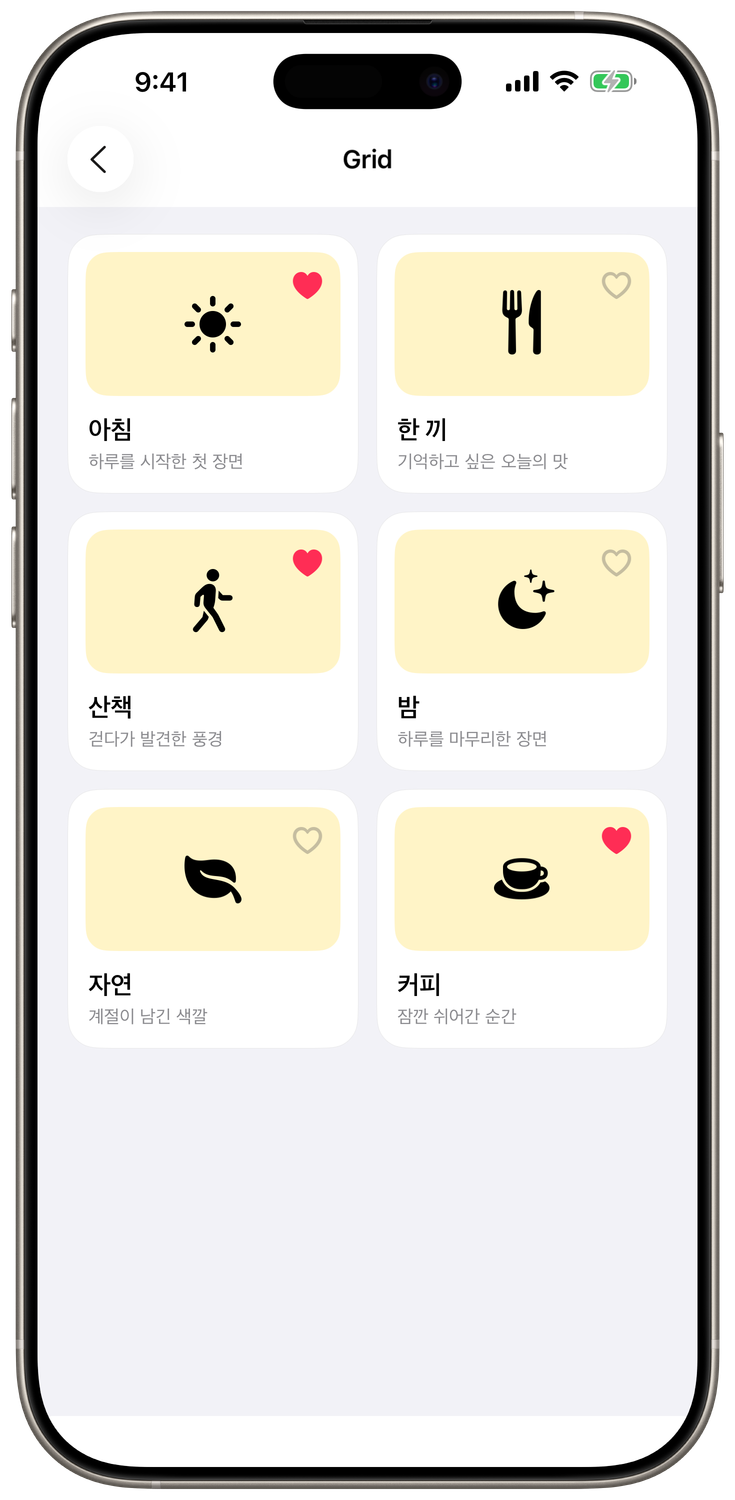
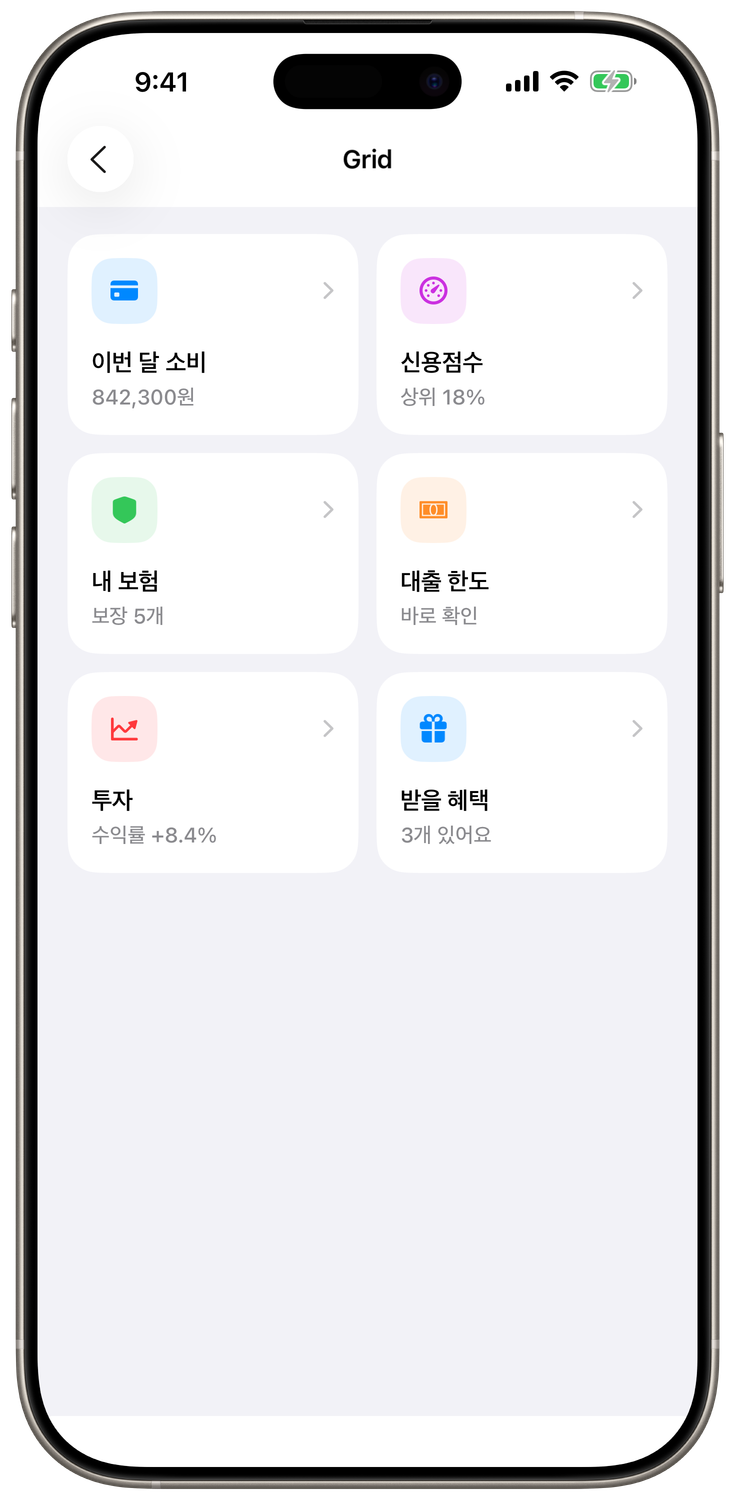
[#59] Grid 예제를 금융 카드로 개선

Changed region(s): [[0.0898, 0.1533, 0.4789, 0.6747], [0.5388, 0.1533, 0.898, 0.6747]]

diff --git a/Projects/Shared/CollectionViewAdapter/Demo/4. ReadmeCapture/2. ReadmeGridViewController.swift b/Projects/Shared/CollectionViewAdapter/Demo/4. ReadmeCapture/2. ReadmeGridViewController.swift
@@ -1,52 +1,298 @@
 import CollectionViewAdapter
 import UIKit
 
+private final class ReadmeFinanceGridContentView: UIControl, Touchable {
+    enum Tone: Equatable {
+        case blue
+        case green
+        case orange
+        case purple
+        case red
+
+        var color: UIColor {
+            switch self {
+            case .blue:
+                .systemBlue
+            case .green:
+                .systemGreen
+            case .orange:
+                .systemOrange
+            case .purple:
+                .systemPurple
+            case .red:
+                .systemRed
+            }
+        }
+    }
+
+    struct Item: Identifiable, Equatable {
+        let id: String
+        let title: String
+        let value: String
+        let symbolName: String
+        let tone: Tone
+    }
+
+    var item: Item? {
+        didSet {
+            guard item != oldValue else {
+                return
+            }
+            applyItem()
+        }
+    }
+
+    private let surfaceView = UIView()
+    private let symbolBackgroundView = UIView()
+    private let symbolView = UIImageView()
+    private let chevronView = UIImageView(
+        image: UIImage(systemName: "chevron.right")
+    )
+    private let titleLabel = UILabel()
+    private let valueLabel = UILabel()
+
+    override init(frame: CGRect) {
+        super.init(frame: frame)
+        configureView()
+        configureLayout()
+    }
+
+    @available(*, unavailable)
+    required init?(coder: NSCoder) {
+        fatalError("init(coder:)는 지원하지 않습니다.")
+    }
+
+    override var isHighlighted: Bool {
+        didSet {
+            surfaceView.alpha = isHighlighted ? 0.72 : 1
+            surfaceView.transform = isHighlighted
+                ? CGAffineTransform(scaleX: 0.97, y: 0.97)
+                : .identity
+        }
+    }
+
+    private func applyItem() {
+        guard let item else {
+            titleLabel.text = nil
+            valueLabel.text = nil
+            symbolView.image = nil
+            accessibilityLabel = nil
+            return
+        }
+
+        titleLabel.text = item.title
+        valueLabel.text = item.value
+        symbolView.image = UIImage(systemName: item.symbolName)
+        symbolView.tintColor = item.tone.color
+        symbolBackgroundView.backgroundColor =
+            item.tone.color.withAlphaComponent(0.12)
+        accessibilityLabel = "\(item.title), \(item.value)"
+    }
+
+    private func configureView() {
+        backgroundColor = .clear
+        isAccessibilityElement = true
+        accessibilityTraits = .button
+
+        surfaceView.backgroundColor = .secondarySystemGroupedBackground
+        surfaceView.layer.cornerRadius = 20
+        surfaceView.layer.cornerCurve = .continuous
+        surfaceView.isUserInteractionEnabled = false
+
+        symbolBackgroundView.layer.cornerRadius = 14
+        symbolBackgroundView.layer.cornerCurve = .continuous
+
+        symbolView.contentMode = .scaleAspectFit
+        symbolView.preferredSymbolConfiguration =
+            UIImage.SymbolConfiguration(
+                pointSize: 19,
+                weight: .semibold
+            )
+
+        chevronView.tintColor = .tertiaryLabel
+        chevronView.contentMode = .scaleAspectFit
+        chevronView.preferredSymbolConfiguration =
+            UIImage.SymbolConfiguration(
+                pointSize: 12,
+                weight: .semibold
+            )
+
+        titleLabel.font = .systemFont(ofSize: 16, weight: .semibold)
+        titleLabel.textColor = .label
+
+        valueLabel.font = .systemFont(ofSize: 14, weight: .medium)
+        valueLabel.textColor = .secondaryLabel
+        valueLabel.numberOfLines = 1
+        valueLabel.adjustsFontSizeToFitWidth = true
+        valueLabel.minimumScaleFactor = 0.85
+    }
+
+    private func configureLayout() {
+        [
+            surfaceView,
+            symbolBackgroundView,
+            symbolView,
+            chevronView,
+            titleLabel,
+            valueLabel
+        ].forEach {
+            $0.translatesAutoresizingMaskIntoConstraints = false
+        }
+
+        addSubview(surfaceView)
+        surfaceView.addSubview(symbolBackgroundView)
+        symbolBackgroundView.addSubview(symbolView)
+        surfaceView.addSubview(chevronView)
+        surfaceView.addSubview(titleLabel)
+        surfaceView.addSubview(valueLabel)
+
+        activateSurfaceConstraints()
+        activateContentConstraints()
+    }
+
+    private func activateSurfaceConstraints() {
+        NSLayoutConstraint.activate([
+            surfaceView.leadingAnchor.constraint(equalTo: leadingAnchor),
+            surfaceView.trailingAnchor.constraint(equalTo: trailingAnchor),
+            surfaceView.topAnchor.constraint(equalTo: topAnchor),
+            surfaceView.bottomAnchor.constraint(equalTo: bottomAnchor),
+
+            symbolBackgroundView.leadingAnchor.constraint(
+                equalTo: surfaceView.leadingAnchor,
+                constant: 16
+            ),
+            symbolBackgroundView.topAnchor.constraint(
+                equalTo: surfaceView.topAnchor,
+                constant: 16
+            ),
+            symbolBackgroundView.widthAnchor.constraint(
+                equalToConstant: 44
+            ),
+            symbolBackgroundView.heightAnchor.constraint(
+                equalToConstant: 44
+            ),
+
+            symbolView.centerXAnchor.constraint(
+                equalTo: symbolBackgroundView.centerXAnchor
+            ),
+            symbolView.centerYAnchor.constraint(
+                equalTo: symbolBackgroundView.centerYAnchor
+            ),
+            symbolView.widthAnchor.constraint(equalToConstant: 22),
+            symbolView.heightAnchor.constraint(equalToConstant: 22),
+
+            chevronView.centerYAnchor.constraint(
+                equalTo: symbolBackgroundView.centerYAnchor
+            ),
+            chevronView.trailingAnchor.constraint(
+                equalTo: surfaceView.trailingAnchor,
+                constant: -16
+            ),
+            chevronView.widthAnchor.constraint(equalToConstant: 10),
+            chevronView.heightAnchor.constraint(equalToConstant: 16)
+        ])
+    }
+
+    private func activateContentConstraints() {
+        NSLayoutConstraint.activate([
+            titleLabel.leadingAnchor.constraint(
+                equalTo: surfaceView.leadingAnchor,
+                constant: 16
+            ),
+            titleLabel.trailingAnchor.constraint(
+                equalTo: surfaceView.trailingAnchor,
+                constant: -16
+            ),
+            titleLabel.topAnchor.constraint(
+                equalTo: symbolBackgroundView.bottomAnchor,
+                constant: 16
+            ),
+
+            valueLabel.leadingAnchor.constraint(
+                equalTo: titleLabel.leadingAnchor
+            ),
+            valueLabel.trailingAnchor.constraint(
+                equalTo: titleLabel.trailingAnchor
+            ),
+            valueLabel.topAnchor.constraint(
+                equalTo: titleLabel.bottomAnchor,
+                constant: 5
+            ),
+            valueLabel.bottomAnchor.constraint(
+                lessThanOrEqualTo: surfaceView.bottomAnchor,
+                constant: -16
+            )
+        ])
+    }
+}
+
+private struct ReadmeFinanceGridComponent: Component {
+    typealias Item = ReadmeFinanceGridContentView.Item
+
+    let item: Item
+
+    var estimatedHeight: CGFloat {
+        150
+    }
+
+    func createContent() -> ReadmeFinanceGridContentView {
+        ReadmeFinanceGridContentView()
+    }
+
+    func render(
+        context _: ComponentContext,
+        content: ReadmeFinanceGridContentView
+    ) {
+        content.item = item
+    }
+}
+
 /// 하나의 Section에 카드를 2열 Grid로 배치합니다.
 @MainActor
 final class ReadmeGridViewController:
     UIViewController {
-    private let items: [GridDemoContentView.Item] = [
+    private let items: [ReadmeFinanceGridContentView.Item] = [
         .init(
-            id: "morning",
-            title: "아침",
-            subtitle: "하루를 시작한 첫 장면",
-            symbolName: "sun.max.fill",
-            isFavorite: true
+            id: "spending",
+            title: "이번 달 소비",
+            value: "842,300원",
+            symbolName: "creditcard.fill",
+            tone: .blue
         ),
         .init(
-            id: "meal",
-            title: "한 끼",
-            subtitle: "기억하고 싶은 오늘의 맛",
-            symbolName: "fork.knife",
-            isFavorite: false
+            id: "credit-score",
+            title: "신용점수",
+            value: "상위 18%",
+            symbolName: "gauge.with.dots.needle.67percent",
+            tone: .purple
         ),
         .init(
-            id: "walk",
-            title: "산책",
-            subtitle: "걷다가 발견한 풍경",
-            symbolName: "figure.walk",
-            isFavorite: true
+            id: "insurance",
+            title: "내 보험",
+            value: "보장 5개",
+            symbolName: "shield.fill",
+            tone: .green
         ),
         .init(
-            id: "night",
-            title: "밤",
-            subtitle: "하루를 마무리한 장면",
-            symbolName: "moon.stars.fill",
-            isFavorite: false
+            id: "loan",
+            title: "대출 한도",
+            value: "바로 확인",
+            symbolName: "banknote.fill",
+            tone: .orange
         ),
         .init(
-            id: "nature",
-            title: "자연",
-            subtitle: "계절이 남긴 색깔",
-            symbolName: "leaf.fill",
-            isFavorite: false
+            id: "investment",
+            title: "투자",
+            value: "수익률 +8.4%",
+            symbolName: "chart.line.uptrend.xyaxis",
+            tone: .red
         ),
         .init(
-            id: "coffee",
-            title: "커피",
-            subtitle: "잠깐 쉬어간 순간",
-            symbolName: "cup.and.saucer.fill",
-            isFavorite: true
+            id: "benefit",
+            title: "받을 혜택",
+            value: "3개 있어요",
+            symbolName: "gift.fill",
+            tone: .blue
         )
     ]
 
@@ -78,13 +324,13 @@ final class ReadmeGridViewController:
         SectionModels {
             LazySection(identifier: "grid") {
                 For(of: self.items) { item in
-                    GridDemoComponent(item: item)
+                    ReadmeFinanceGridComponent(item: item)
                 }
             }
             .withSectionLayout(
                 .grid(
                     columns: 2,
-                    estimatedRowHeight: 178,
+                    estimatedRowHeight: 150,
                     interItemSpacing: 12,
                     lineSpacing: 12,
                     contentInsets:
